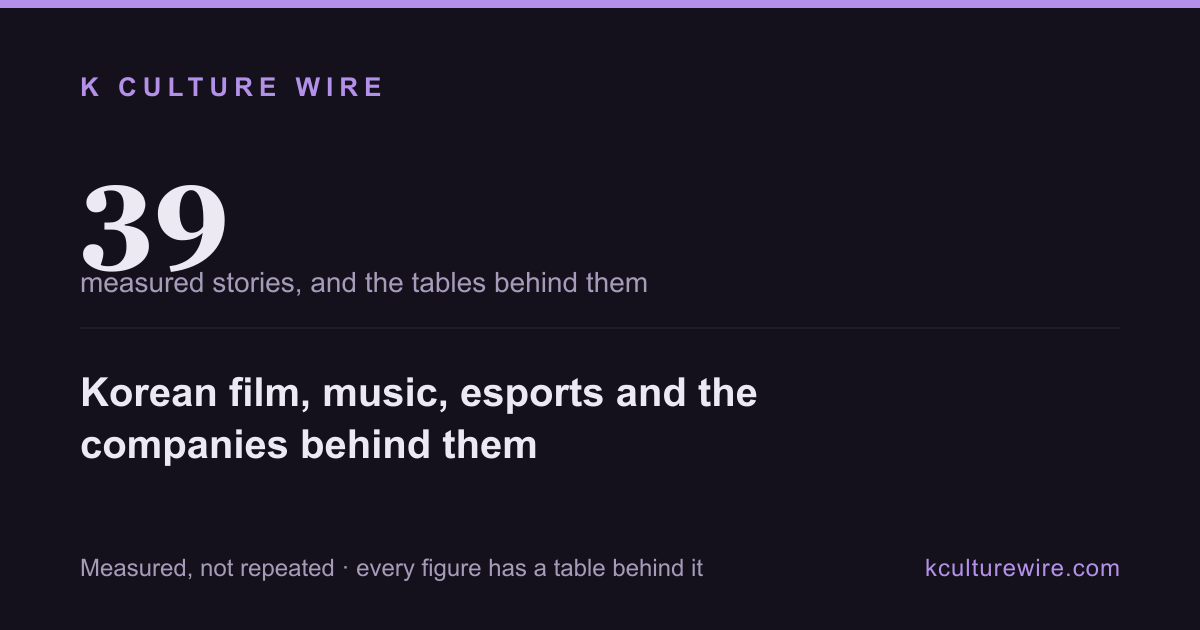
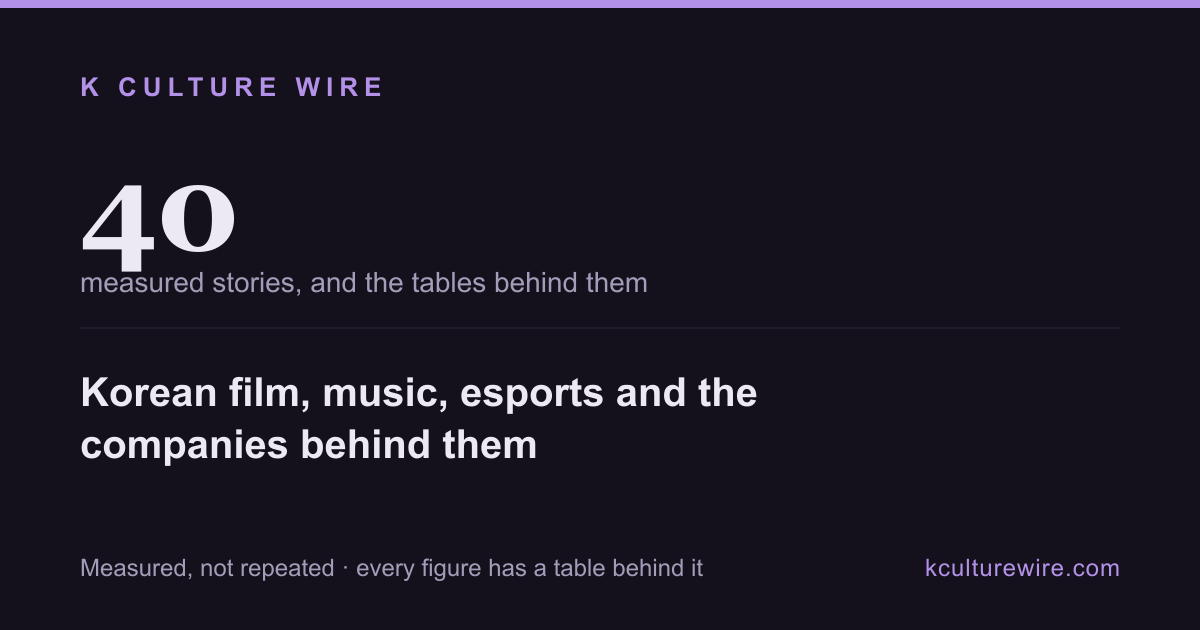
기사 40편째 — 차트가 한국 작품의 몇 퍼센트를 닿나. 분모를 처음 셌다
우리는 늘 「차트에 오른 397편」을 말했는데 그게 몇 편 중 397편인지는 한 번도 안 적었다.
분모 없는 비율은 비율이 아니다.

시리즈  위키데이터 4,752편 · 2021년 이후 782편 · 우리 237편  →  **30.3%**
영화    위키데이터 10,233편 · 2021년 이후 1,120편 · 우리 160편 →  **14.3%**

⭐ 시리즈가 영화의 두 배다. 「나가서 몇 나라를 도나」(35 대 11)보다 **한 칸 앞의 일**이다 —
   영화는 문 앞에서 덜 들어간다. 까닭은 못 잰다고 적었다(배급 기록이 없다).

⛔ 처음 셈이 틀렸다 — P577(공개일)만 봤더니 차트시대 시리즈가 **84편**으로 나왔다.
   우리 패널이 237편이라 **덮는 비율이 282%** 가 됐다. 말이 안 되니 분모가 틀린 것이다.
   시리즈는 P580(시작일)을 쓴다. 둘 다 받으니 84 → 782 로 는다.
   ⭐ **말이 안 되는 수라서 잡혔다.** 그냥 이상한 수였으면 그대로 냈을 것이다.
   그래서 수집기가 100% 넘는 비율을 아예 못 내게 막았다(null 로 적는다).

⛔ 위키데이터는 만들어진 것이 아니라 적힌 것이다. 우리 비율은 **천장**이고 내려가지 올라가지 않는다.
⚠ 앞머리 dek 이 240자를 넘어 빌드가 죽었다. 스키마가 잡아 준 것이다.

검사 31개째 — 다섯 군데를 깨뜨려 다섯 다 선다

Changed region(s): [[0.0617, 0.2714, 0.2158, 0.4524]]

diff --git a/content/kculturewire/what-share-of-korean-output-the-charts-touch.md b/content/kculturewire/what-share-of-korean-output-the-charts-touch.md
@@ -1,0 +1,89 @@
+---
+title: "Netflix's Southeast Asia charts reach 30% of Korean series made since 2021, and 14% of the films"
+dek: "Our panel never had a denominator. Wikidata records 782 Korean series and 1,120 Korean films from the chart era; 237 series and 160 films reached a Top 10. Series are twice as likely to be seen at all."
+category: screen
+pubDate: 2026-08-08
+dataAsOf: 2026-08-08T00:00:00+09:00
+author: Newsroom
+tags: ["netflix", "korea", "measurement", "coverage", "film", "series"]
+pages:
+  - "/titles"
+  - "/screen-split"
+sources:
+  - org: "Wikidata"
+    api: "Works with country of origin P495 = Q884, split by type — film Q11424 and television series Q5398426 — counted whole, counted with a date, and counted from 2021 using publication date P577 or start time P580"
+    url: "https://query.wikidata.org"
+  - org: "Netflix"
+    api: "Top 10 weekly country lists (Tudum) for Singapore, Malaysia, the Philippines, Thailand, Indonesia and Vietnam, 2021-07-04 to 2026-07-26"
+    url: "https://www.netflix.com/tudum/top10"
+crossChecks:
+  - "The panel side of every ratio is read from the same file the site is built from, not recounted, so the numerator here cannot drift from the numerator on our other pages"
+  - "The first version of this count used publication date alone and returned 84 chart-era series, fewer than the 237 in our own panel. A coverage share above 100% is impossible, which is how we found that series carry start time instead"
+  - "The collector now refuses to publish any share above 100% and records it as empty, so the same error cannot reach a page silently"
+excluded:
+  - "Any claim that these are production totals. Wikidata records what someone wrote down; if more was made than is recorded, our share is lower than shown and never higher"
+  - "The whole-catalogue shares as a measure of reach. Most of that catalogue predates the chart entirely, so 1.6% and 5.0% describe the archive, not the era"
+  - "Any comparison between the chart-era rows and the whole-catalogue rows. The first counts only items carrying a date and the second counts everything, so they have different denominators"
+  - "Documentaries, shorts, web series and anything Wikidata files under another class. Two classes are counted here and nothing else"
+---
+
+Every figure we publish about Korean titles on Netflix starts from the same place: **397 titles that
+reached a Top 10** in six Southeast Asian markets. Until today we had never said what that is 397
+*out of*.
+
+A share without a denominator is not a share. So we counted one.
+
+## What the charts touch
+
+| | Recorded in Wikidata | Made since 2021 | Reached a Top 10 | Share of the chart era |
+| --- | ---: | ---: | ---: | ---: |
+| Television series | 4,752 | 782 | 237 | **30.3%** |
+| Films | 10,233 | 1,120 | 160 | **14.3%** |
+
+Roughly **three in ten** Korean series made since the charts began have appeared on one in Southeast
+Asia. For films it is **fewer than one and a half in ten**.
+
+Against the whole recorded catalogue the shares are 5.0% and 1.6%, but those numbers describe an
+archive rather than a market: most of what Wikidata holds was made long before Netflix published a
+weekly list, and a 1979 film had no chance to appear on one.
+
+## The same asymmetry, again
+
+A Korean series is **twice as likely** to reach a chart as a Korean film. That is not a new finding
+here so much as the same finding arriving from a new direction. We have already measured that
+[the median Korean series charts in 35 countries and the median film in
+11](/article/korean-series-travel-films-do-not), and that
+[films are far more likely to carry a name we cannot verify](/article/short-titles-are-where-we-cannot-check-ourselves).
+
+Now we can add the step before both: **fewer films get onto the chart at all.** Whatever is
+happening to Korean film abroad is happening at the door, not only after it.
+
+**We are not going to tell you why.** Volume of Korean film output includes a long tail of small
+releases that were never licensed to a streaming service in Southeast Asia, and nothing in these
+counts separates that tail from a film that was available and simply not watched. Settling it needs
+a distribution record we do not have.
+
+## How we found our own mistake
+
+The first version of this count asked Wikidata for a publication date (`P577`) and got **84** Korean
+series from the chart era.
+
+Our panel holds 237.
+
+A coverage share cannot exceed 100%, so the error was in the denominator, not the panel: Korean
+television series overwhelmingly carry **start time** (`P580`) rather than publication date. Counting
+both fields raises the chart-era series from 84 to 782 and the ones with any date at all from 210 to
+3,792.
+
+The collector now refuses to emit a share above 100% and writes an empty cell instead. **The
+impossible number was the only reason we looked**, and if it had been merely implausible rather than
+impossible we would probably have published it.
+
+## What this does not mean
+
+Wikidata is a record of what somebody wrote down, not a census of what was made. Its 10,233 films are
+a floor. If Korean cinema produced more than that — and it almost certainly did, once you count
+releases nobody catalogued — then our 14.3% is **an upper bound that gets smaller**, never larger.
+
+We would rather hand you a ceiling and say so than hand you a number and let you assume it is a
+count.
